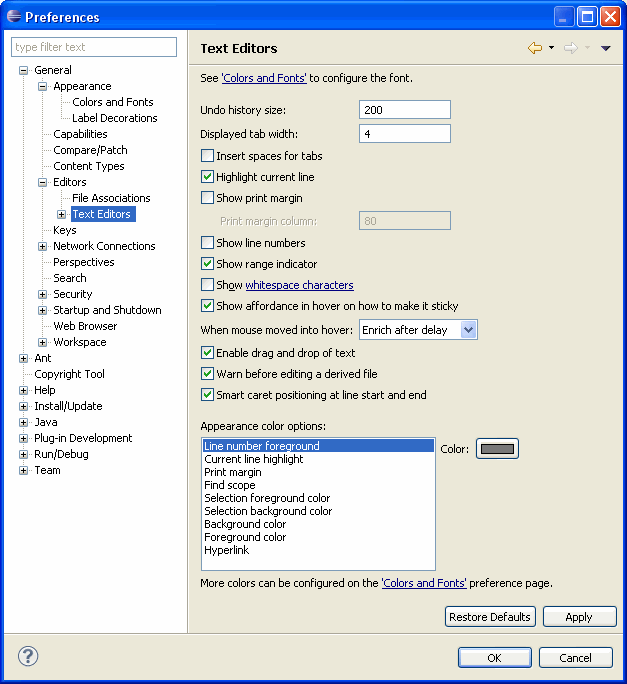
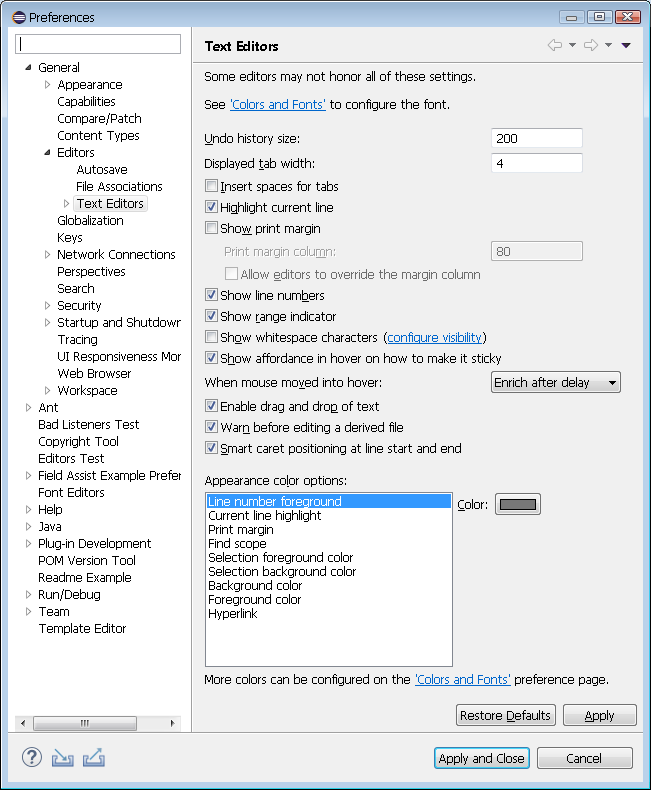
Fixed bug 468307: [Preferences] Print margin's behavior is confusing to many users

diff --git a/bundles/org.eclipse.platform.doc.user/reference/ref-texteditorprefs.htm b/bundles/org.eclipse.platform.doc.user/reference/ref-texteditorprefs.htm
@@ -2,7 +2,7 @@
 <html lang="en" xmlns="http://www.w3.org/1999/xhtml" xml:lang="en">
   <head>
     <meta name="copyright" content=
-    "Copyright (c) IBM Corporation and others 2000, 2011. This page is made available under license. For full details see the LEGAL in the documentation book that contains this page." />
+    "Copyright (c) IBM Corporation and others 2000, 2018. This page is made available under license. For full details see the LEGAL in the documentation book that contains this page." />
     <meta http-equiv="Content-Type" content="text/html; charset=utf-8" />
     <meta http-equiv="Content-Style-Type" content="text/css" />
     <title>
@@ -174,6 +174,25 @@
           <td align="left" valign="top">
             <div class="Para">
               80
+            </div>
+          </td>
+
+        </tr>
+        <tr>
+          <td align="left" valign="top">
+            <div class="Para">
+              Allow editors to override the margin column<br />
+            </div>
+          </td>
+
+          <td align="left" valign="top">
+            <div class="Para">
+              This option tells whether editors are allowed to override the print margin column.
+            </div>
+          </td>
+          <td align="left" valign="top">
+            <div class="Para">
+              false
             </div>
           </td>
 
